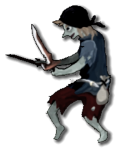
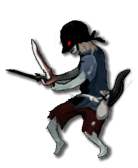
Polish
Added sweaty armband relic to giant arm. Fixed magus+assassin and gave the assassin a new look. Added some clarity to prism guardian

diff --git a/BattleTowers/src/main/java/BattleTowers/powers/PrismPower.java b/BattleTowers/src/main/java/BattleTowers/powers/PrismPower.java
@@ -1,0 +1,73 @@
+package BattleTowers.powers;
+
+import BattleTowers.BattleTowers;
+import BattleTowers.monsters.PrismGuardian;
+import basemod.interfaces.CloneablePowerInterface;
+import com.badlogic.gdx.graphics.Color;
+import com.evacipated.cardcrawl.mod.stslib.powers.interfaces.HealthBarRenderPower;
+import com.megacrit.cardcrawl.actions.AbstractGameAction;
+import com.megacrit.cardcrawl.actions.common.LoseHPAction;
+import com.megacrit.cardcrawl.cards.DamageInfo;
+import com.megacrit.cardcrawl.core.AbstractCreature;
+import com.megacrit.cardcrawl.core.CardCrawlGame;
+import com.megacrit.cardcrawl.dungeons.AbstractDungeon;
+import com.megacrit.cardcrawl.localization.PowerStrings;
+import com.megacrit.cardcrawl.monsters.AbstractMonster;
+import com.megacrit.cardcrawl.powers.AbstractPower;
+import com.megacrit.cardcrawl.rooms.AbstractRoom;
+
+
+public class PrismPower extends AbstractPower implements CloneablePowerInterface {
+    public AbstractCreature source;
+    public float particleTimer;
+    public float particleTimer2;
+
+    public static final String POWER_ID = BattleTowers.makeID("PrismPower");
+    private static final PowerStrings powerStrings = CardCrawlGame.languagePack.getPowerStrings(POWER_ID);
+    public static final String NAME = powerStrings.NAME;
+    public static final String[] DESCRIPTIONS = powerStrings.DESCRIPTIONS;
+
+    // We create 2 new textures *Using This Specific Texture Loader* - an 84x84 image and a 32x32 one.
+    // There's a fallback "missing texture" image, so the game shouldn't crash if you accidentally put a non-existent file.
+    //private static final Texture tex84 = TextureLoader.getTexture(makePowerPath("honeypower84.png"));
+    //private static final Texture tex32 = TextureLoader.getTexture(makePowerPath("honeypower32.png"));
+
+    public PrismPower(final AbstractCreature owner, final AbstractCreature source, final int amount) {
+        name = NAME;
+        ID = POWER_ID;
+
+        this.owner = owner;
+        this.amount = amount;
+        this.source = source;
+
+        type = PowerType.BUFF;
+        isTurnBased = false;
+
+        // We load those txtures here.
+        //this.region128 = new TextureAtlas.AtlasRegion(tex84, 0, 0, 84, 84);
+        //this.region48 = new TextureAtlas.AtlasRegion(tex32, 0, 0, 32, 32);
+        this.loadRegion("focus");
+        updateDescription();
+    }
+
+    @Override
+    public void atStartOfTurn(){
+        this.amount = 0;
+        updateDescription();
+    }
+
+
+
+    // Update the description when you apply this power. (i.e. add or remove an "s" in keyword(s))
+    @Override
+    public void updateDescription() {
+        description = DESCRIPTIONS[0] + this.amount + DESCRIPTIONS[1];
+    }
+
+    @Override
+    public AbstractPower makeCopy() {
+        return new PrismPower(owner, source, amount);
+    }
+}
+
+

diff --git a/BattleTowers/src/main/java/BattleTowers/monsters/PrismGuardian.java b/BattleTowers/src/main/java/BattleTowers/monsters/PrismGuardian.java
@@ -2,6 +2,7 @@ package BattleTowers.monsters;
 
 import BattleTowers.BattleTowers;
 import BattleTowers.actions.PrismStasisAction;
+import BattleTowers.powers.PrismPower;
 import BattleTowers.powers.PrismShield;
 import BattleTowers.vfx.ColoredLargeLaserEffect;
 import basemod.abstracts.CustomMonster;
@@ -66,14 +67,21 @@ public class PrismGuardian extends CustomMonster {
 
     public void usePreBattleAction() {
         AbstractDungeon.actionManager.addToBottom(new ApplyPowerAction(this, this, new PrismShield(this, this, 0)));
+        AbstractDungeon.actionManager.addToBottom(new ApplyPowerAction(this, this, new PrismPower(this, this, 0)));
         AbstractDungeon.actionManager.addToBottom(new ApplyPowerAction(this, this, new ArtifactPower(this, 1)));
     }
 
     public void changeLaserDamage(int l){
         this.damage.set(0, new DamageInfo(this, laserDmg + l));
         this.setMove(LASER, Intent.ATTACK, ((DamageInfo) this.damage.get(0)).base);
+        if (this.hasPower(PrismPower.POWER_ID) && this.hasPower(PrismShield.POWER_ID)){
+            if (this.getPower(PrismShield.POWER_ID).amount > 20) {
+                this.getPower(PrismPower.POWER_ID).amount = this.getPower(PrismShield.POWER_ID).amount - 20;
+                this.getPower(PrismPower.POWER_ID).flash();
+                this.getPower(PrismPower.POWER_ID).updateDescription();
+            }
+        }
         this.createIntent();
-
     }
 
     public void takeTurn() {
@@ -92,7 +100,6 @@ public class PrismGuardian extends CustomMonster {
                 AbstractDungeon.actionManager.addToBottom(new VFXAction(new ColoredLargeLaserEffect(this.hb.cX, this.hb.cY + 60.0F * Settings.scale, Color.LIME.cpy()), 1.5F));
                 AbstractDungeon.actionManager.addToBottom(new ApplyPowerAction(AbstractDungeon.player, this, new DexterityPower(AbstractDungeon.player, -2),-2));
                 AbstractDungeon.actionManager.addToBottom(new ApplyPowerAction(AbstractDungeon.player, this, new FocusPower(AbstractDungeon.player, -2),-2));
-
                 break;
         }
 

diff --git a/BattleTowers/src/main/java/BattleTowers/monsters/GiantArm.java b/BattleTowers/src/main/java/BattleTowers/monsters/GiantArm.java
@@ -1,7 +1,10 @@
 package BattleTowers.monsters;
 
 import BattleTowers.BattleTowers;
+import BattleTowers.powers.MakeAWishPower;
 import BattleTowers.powers.WrathPower;
+import BattleTowers.relics.DijinnLamp;
+import BattleTowers.relics.SweatyArmband;
 import basemod.abstracts.CustomMonster;
 import com.badlogic.gdx.math.MathUtils;
 import com.megacrit.cardcrawl.actions.AbstractGameAction.AttackEffect;
@@ -19,6 +22,7 @@ import com.megacrit.cardcrawl.core.Settings;
 import com.megacrit.cardcrawl.dungeons.AbstractDungeon;
 import com.megacrit.cardcrawl.localization.MonsterStrings;
 import com.megacrit.cardcrawl.powers.StrengthPower;
+import com.megacrit.cardcrawl.rewards.RewardItem;
 
 public class GiantArm extends CustomMonster {
     public static final String ID = BattleTowers.makeID(GiantArm.class.getSimpleName());
@@ -80,6 +84,7 @@ public class GiantArm extends CustomMonster {
     @Override
     public void usePreBattleAction() {
         AbstractDungeon.actionManager.addToBottom(new TalkAction(this, DIALOG[0], 1.2f, 1.6f));
+        AbstractDungeon.getCurrRoom().rewards.add(new RewardItem(new SweatyArmband()));
         playSfx();
     }
 
@@ -116,8 +121,13 @@ public class GiantArm extends CustomMonster {
     @Override
     public void damage(DamageInfo var1){
         int num = (int)(Math.random() * 100);
-        if (num <= 15){
-            AbstractDungeon.actionManager.addToBottom(new TalkAction(this, DIALOG[1], 1.2f, 1.6f));
+        if (num <= 10){
+            if (num <= 5) {
+                AbstractDungeon.actionManager.addToBottom(new TalkAction(this, DIALOG[1], 1.2f, 1.6f));
+            }
+            else {
+                AbstractDungeon.actionManager.addToBottom(new TalkAction(this, DIALOG[3], 1.2f, 1.6f));
+            }
             playSfx();
         }
         super.damage(var1);

diff --git a/BattleTowers/src/main/java/BattleTowers/relics/SweatyArmband.java b/BattleTowers/src/main/java/BattleTowers/relics/SweatyArmband.java
@@ -1,0 +1,44 @@
+package BattleTowers.relics;
+
+import BattleTowers.cards.Granted;
+import BattleTowers.util.TextureLoader;
+import basemod.abstracts.CustomRelic;
+import basemod.helpers.CardPowerTip;
+import com.megacrit.cardcrawl.actions.common.ApplyPowerAction;
+import com.megacrit.cardcrawl.actions.common.DrawCardAction;
+import com.megacrit.cardcrawl.actions.common.MakeTempCardInDrawPileAction;
+import com.megacrit.cardcrawl.actions.common.RelicAboveCreatureAction;
+import com.megacrit.cardcrawl.cards.AbstractCard;
+import com.megacrit.cardcrawl.cards.DamageInfo;
+import com.megacrit.cardcrawl.dungeons.AbstractDungeon;
+import com.megacrit.cardcrawl.powers.StrengthPower;
+import com.megacrit.cardcrawl.rooms.AbstractRoom;
+
+import static BattleTowers.BattleTowers.makeID;
+import static BattleTowers.BattleTowers.makeRelicPath;
+
+public class SweatyArmband extends CustomRelic {
+    public static final String ID = makeID(SweatyArmband.class.getSimpleName());
+
+    private final AbstractCard wish = new Granted();
+
+    public SweatyArmband() {
+        super(ID, TextureLoader.getTexture(makeRelicPath("Armband.png")), RelicTier.SPECIAL, LandingSound.MAGICAL);
+        description = getUpdatedDescription();
+    }
+
+    @Override
+    public int onAttacked(DamageInfo info, int damageAmount) {
+        if (damageAmount > 0 && AbstractDungeon.getCurrRoom().phase == AbstractRoom.RoomPhase.COMBAT && info.type.equals(DamageInfo.DamageType.NORMAL)) {
+            this.flash();
+            this.addToTop(new ApplyPowerAction(AbstractDungeon.player, AbstractDungeon.player, new StrengthPower(AbstractDungeon.player, 1), 1));
+        }
+        return damageAmount;
+    }
+
+
+    @Override
+    public String getUpdatedDescription() {
+        return DESCRIPTIONS[0];
+    }
+}

diff --git a/BattleTowers/src/main/java/BattleTowers/monsters/Assassin.java b/BattleTowers/src/main/java/BattleTowers/monsters/Assassin.java
@@ -129,6 +129,10 @@ public class Assassin extends CustomMonster {
                     AbstractDungeon.actionManager.addToBottom(new DamageAction(AbstractDungeon.player, (DamageInfo) this.damage.get(0), AttackEffect.SLASH_DIAGONAL));
                 }
                 AbstractDungeon.actionManager.addToBottom(new SpecialLoseAllBlockAction(this, this));
+                if (this.hasPower(HidePower.POWER_ID)){
+                HidePower h = (HidePower) this.getPower(HidePower.POWER_ID);
+                h.removeHide();
+                }
                 hidingCount = -1;
                 break;
             case STUNNED:

diff --git a/BattleTowers/src/main/java/BattleTowers/BattleTowers.java b/BattleTowers/src/main/java/BattleTowers/BattleTowers.java
@@ -367,6 +367,7 @@ public class BattleTowers implements
         BaseMod.addRelic(new GorgonHead(), RelicType.SHARED);
         BaseMod.addRelic(new SlimeFilledFlask(), RelicType.SHARED);
         BaseMod.addRelic(new SentryOrb(), RelicType.SHARED);
+        BaseMod.addRelic(new SweatyArmband(), RelicType.SHARED);
     }
         
     public static String removeModId(String id) {
